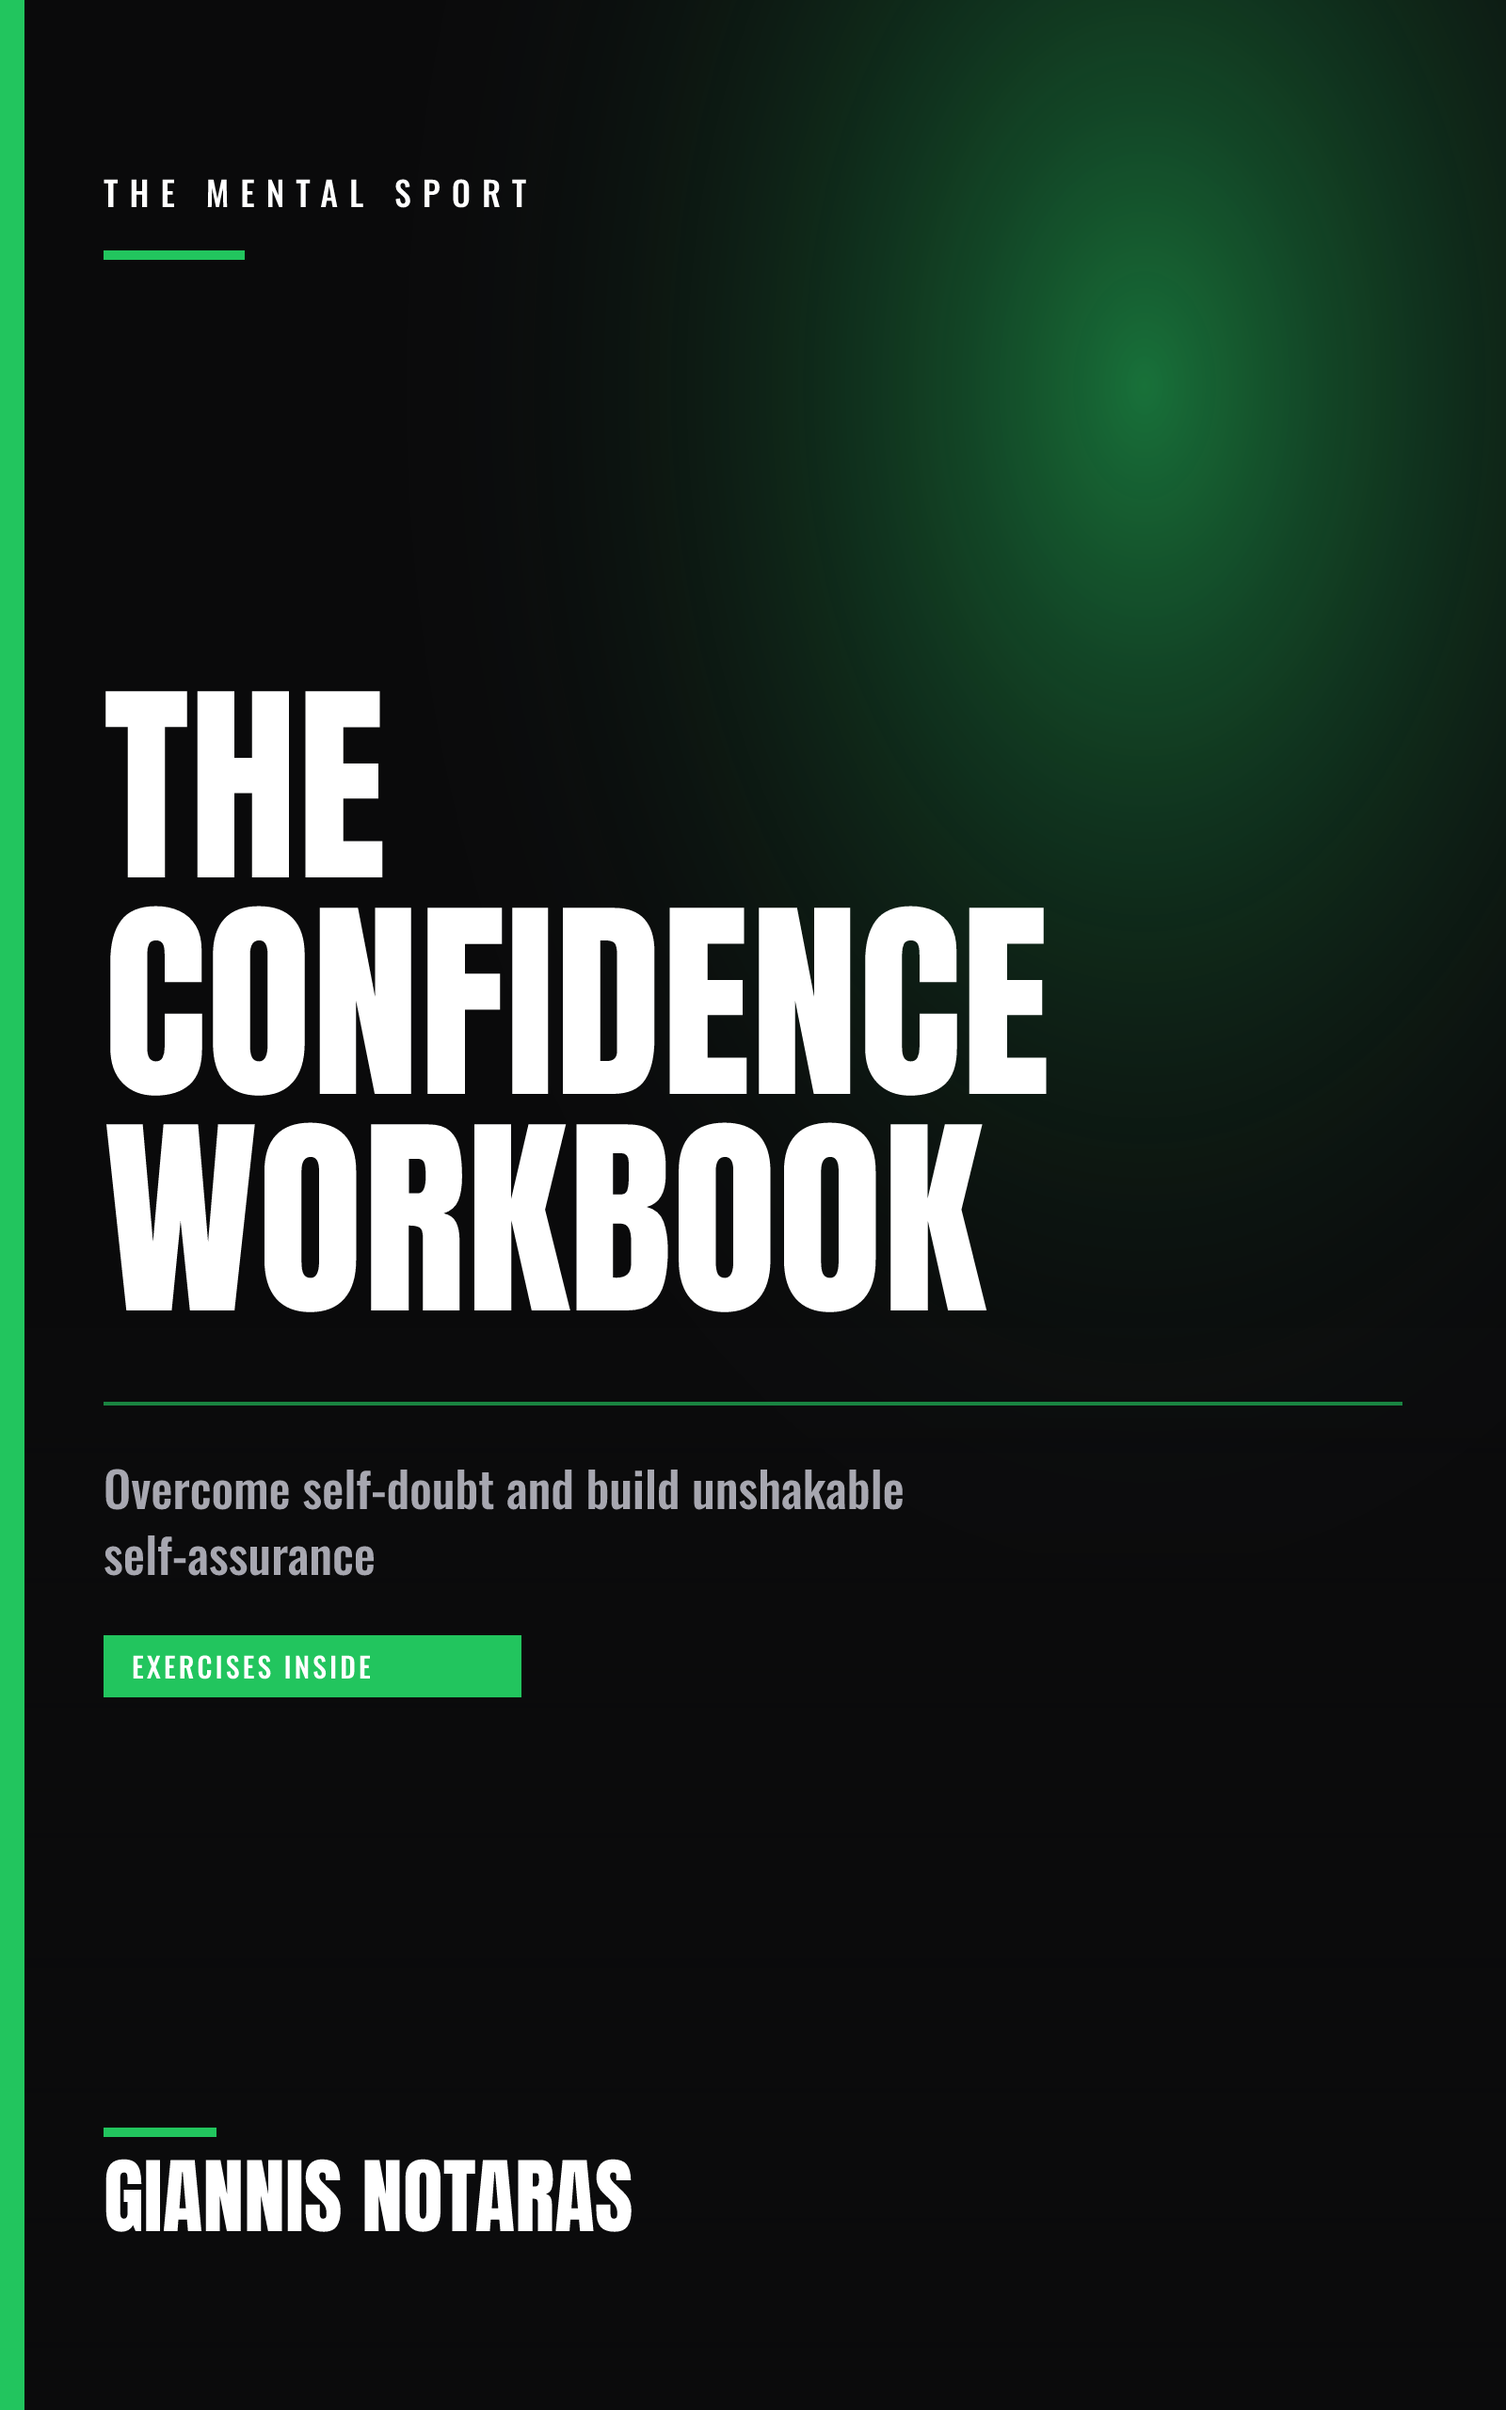
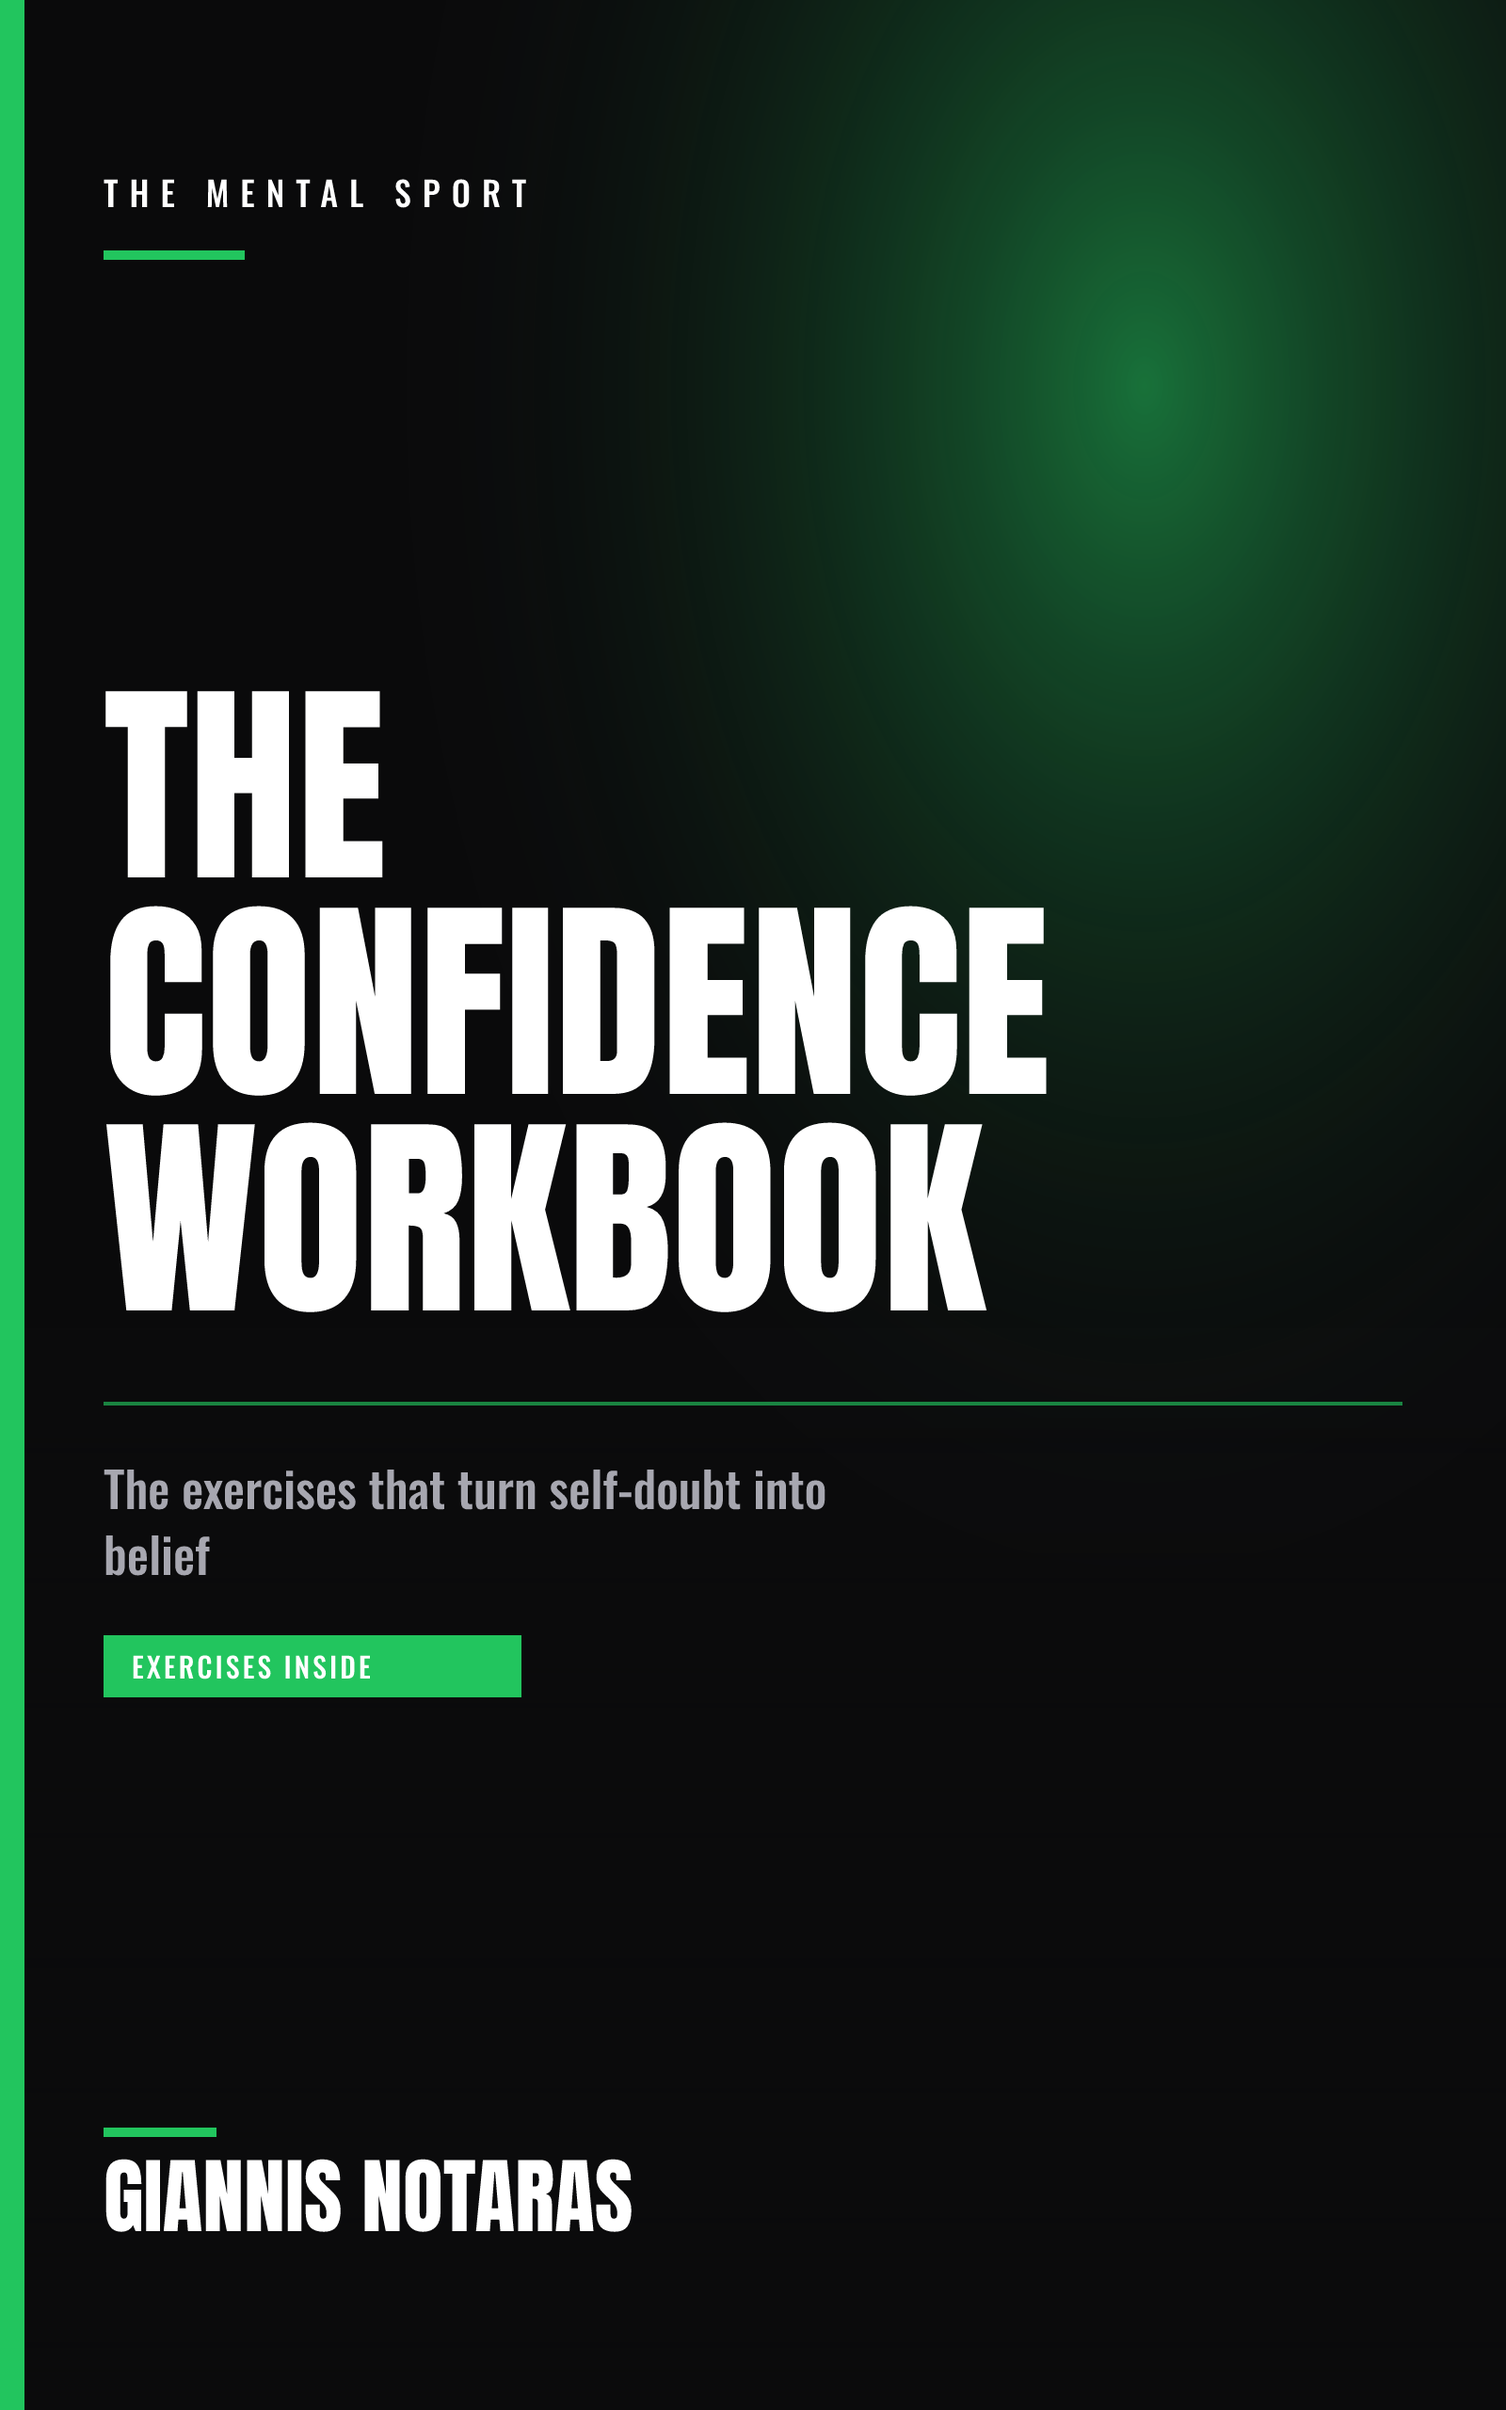
design(covers): outcome-driven subtitles (Hormozi: the promise sells, not the art)
Replaces descriptive subtitles with specific promises ('Build confidence that
survives a loss', 'The 7-day system to stop choking when it counts'). Bumps the
cover cache version to v3.

Changed region(s): [[0.0625, 0.5938, 0.5938, 0.6562]]

diff --git a/src/data/books.ts b/src/data/books.ts
@@ -32,7 +32,7 @@ export const books: Book[] = [
         subtitle: "A Step-by-Step Guide to Mastering Your Mindset, Crushing Anxiety, and dominating Your Sport",
         description: "Master the art of preparation. This book is a manual for the 7 days leading up to your event, teaching you how to build rituals and standard procedures that automate excellence and eliminate anxiety.",
         author: "Giannis Notaras",
-        coverImage: "/covers/the-competition-protocol.png?v=2",
+        coverImage: "/covers/the-competition-protocol.png?v=3",
         features: [
             "The T-Minus 7 Day countdown checklist",
             "How to build an 'Anchor' to trigger flow state instantly",
@@ -61,7 +61,7 @@ export const books: Book[] = [
         subtitle: "A Guide to Peak Performance",
         description: "Your roadmap to silencing inner critics, mastering your mindset, and unlocking the unstoppable version of YOU.",
         author: "Giannis Notaras",
-        coverImage: "/covers/overcoming-mental-blocks.png?v=2",
+        coverImage: "/covers/overcoming-mental-blocks.png?v=3",
         features: [
             "Identify and dismantle mental barriers holding you back.",
             "Tame performance anxiety with proven techniques.",
@@ -100,7 +100,7 @@ export const books: Book[] = [
         subtitle: "Leo and Maya's Mental Toughness Adventure",
         description: "Climb Mental Toughness Mountain with Leo and Maya! A powerful and playful journey that teaches children ages 6–9 how to stay strong on the inside—even when life gets tough.",
         author: "Giannis Notaras",
-        coverImage: "/covers/unbreakable.png?v=2",
+        coverImage: "/covers/unbreakable.png?v=3",
         features: [
             "Turn worried thoughts into helpful ones",
             "Stay calm using balloon breaths",
@@ -131,7 +131,7 @@ export const books: Book[] = [
         subtitle: "Overcome Self-Doubt and Cultivate Unshakable Self-Assurance",
         description: "This hands-on, step-by-step guide helps you dismantle limiting beliefs, conquer fear, and build resilient confidence. Packed with actionable exercises, reflective prompts, and science-backed strategies.",
         author: "Giannis Notaras",
-        coverImage: "/covers/confidence-building.png?v=2",
+        coverImage: "/covers/confidence-building.png?v=3",
         features: [
             "Identify and challenge barriers like negative self-talk and fear of judgment",
             "Set SMART goals tailored to your confidence journey",
@@ -162,7 +162,7 @@ export const books: Book[] = [
         subtitle: "The Key to Consistent High Performance",
         description: "A definitive guide to building an unshakable mindset that thrives under pressure, transforms adversity into advantage, and fuels excellence in sports, business, and life.",
         author: "Giannis Notaras",
-        coverImage: "/covers/resilient-confidence.png?v=2",
+        coverImage: "/covers/resilient-confidence.png?v=3",
         features: [
             "Replace fleeting confidence with deep, intrinsic belief in your abilities",
             "Master mental strategies like visualization and the 'Give Your Best' philosophy",
@@ -193,7 +193,7 @@ export const books: Book[] = [
         subtitle: "The Complete Parent's Guide to Building Healthy Self-Esteem in Children",
         description: "A comprehensive guide for parents and educators to raise children who believe in themselves, handle setbacks with strength, and thrive socially and academically.",
         author: "Giannis Notaras",
-        coverImage: "/covers/nurturing-self-worth.png?v=2",
+        coverImage: "/covers/nurturing-self-worth.png?v=3",
         features: [
             "Understand the psychology behind self-esteem development",
             "Everyday strategies to encourage healthy self-talk and emotional intelligence",
@@ -224,7 +224,7 @@ export const books: Book[] = [
         subtitle: "Unlock Your Body's Full Potential: The Science-Driven Guide to Optimizing Physical Performance",
         description: "Dives deep into the science of human physiology, offering a roadmap to harness your body's innate systems for unparalleled strength, endurance, and efficiency.",
         author: "Giannis Notaras",
-        coverImage: "/covers/physiological-performance.png?v=2",
+        coverImage: "/covers/physiological-performance.png?v=3",
         features: [
             "Optimize energy systems for explosive power or endurance",
             "Enhance cardiovascular and respiratory efficiency",
@@ -255,7 +255,7 @@ export const books: Book[] = [
         subtitle: "Turn Your Distraction Into Domination with Daily Routines Designed to Channel Hyperactivity into Peak Performance",
         description: "A practical and motivating guide for athletes with ADHD to unlock their full potential by learning how to train with their brain rather than fighting it.",
         author: "Giannis Notaras",
-        coverImage: "/covers/adhd-athletes-edge.png?v=2",
+        coverImage: "/covers/adhd-athletes-edge.png?v=3",
         features: [
             "Build mental focus and reduce game-day distractions",
             "Step-by-step tools for managing emotional overwhelm",

diff --git a/src/app/page.tsx b/src/app/page.tsx
@@ -147,7 +147,7 @@ export default function AuthorHome() {
                         {/* Image Side - Featured Work */}
                         <div className="aspect-[3/4] bg-zinc-900 rounded-none relative overflow-hidden group shadow-2xl flex items-center justify-center p-12">
                             <Image
-                                src="/covers/the-competition-protocol.png?v=2"
+                                src="/covers/the-competition-protocol.png?v=3"
                                 alt="The Competition Protocol — book by Giannis Notaras"
                                 width={800}
                                 height={1280}
